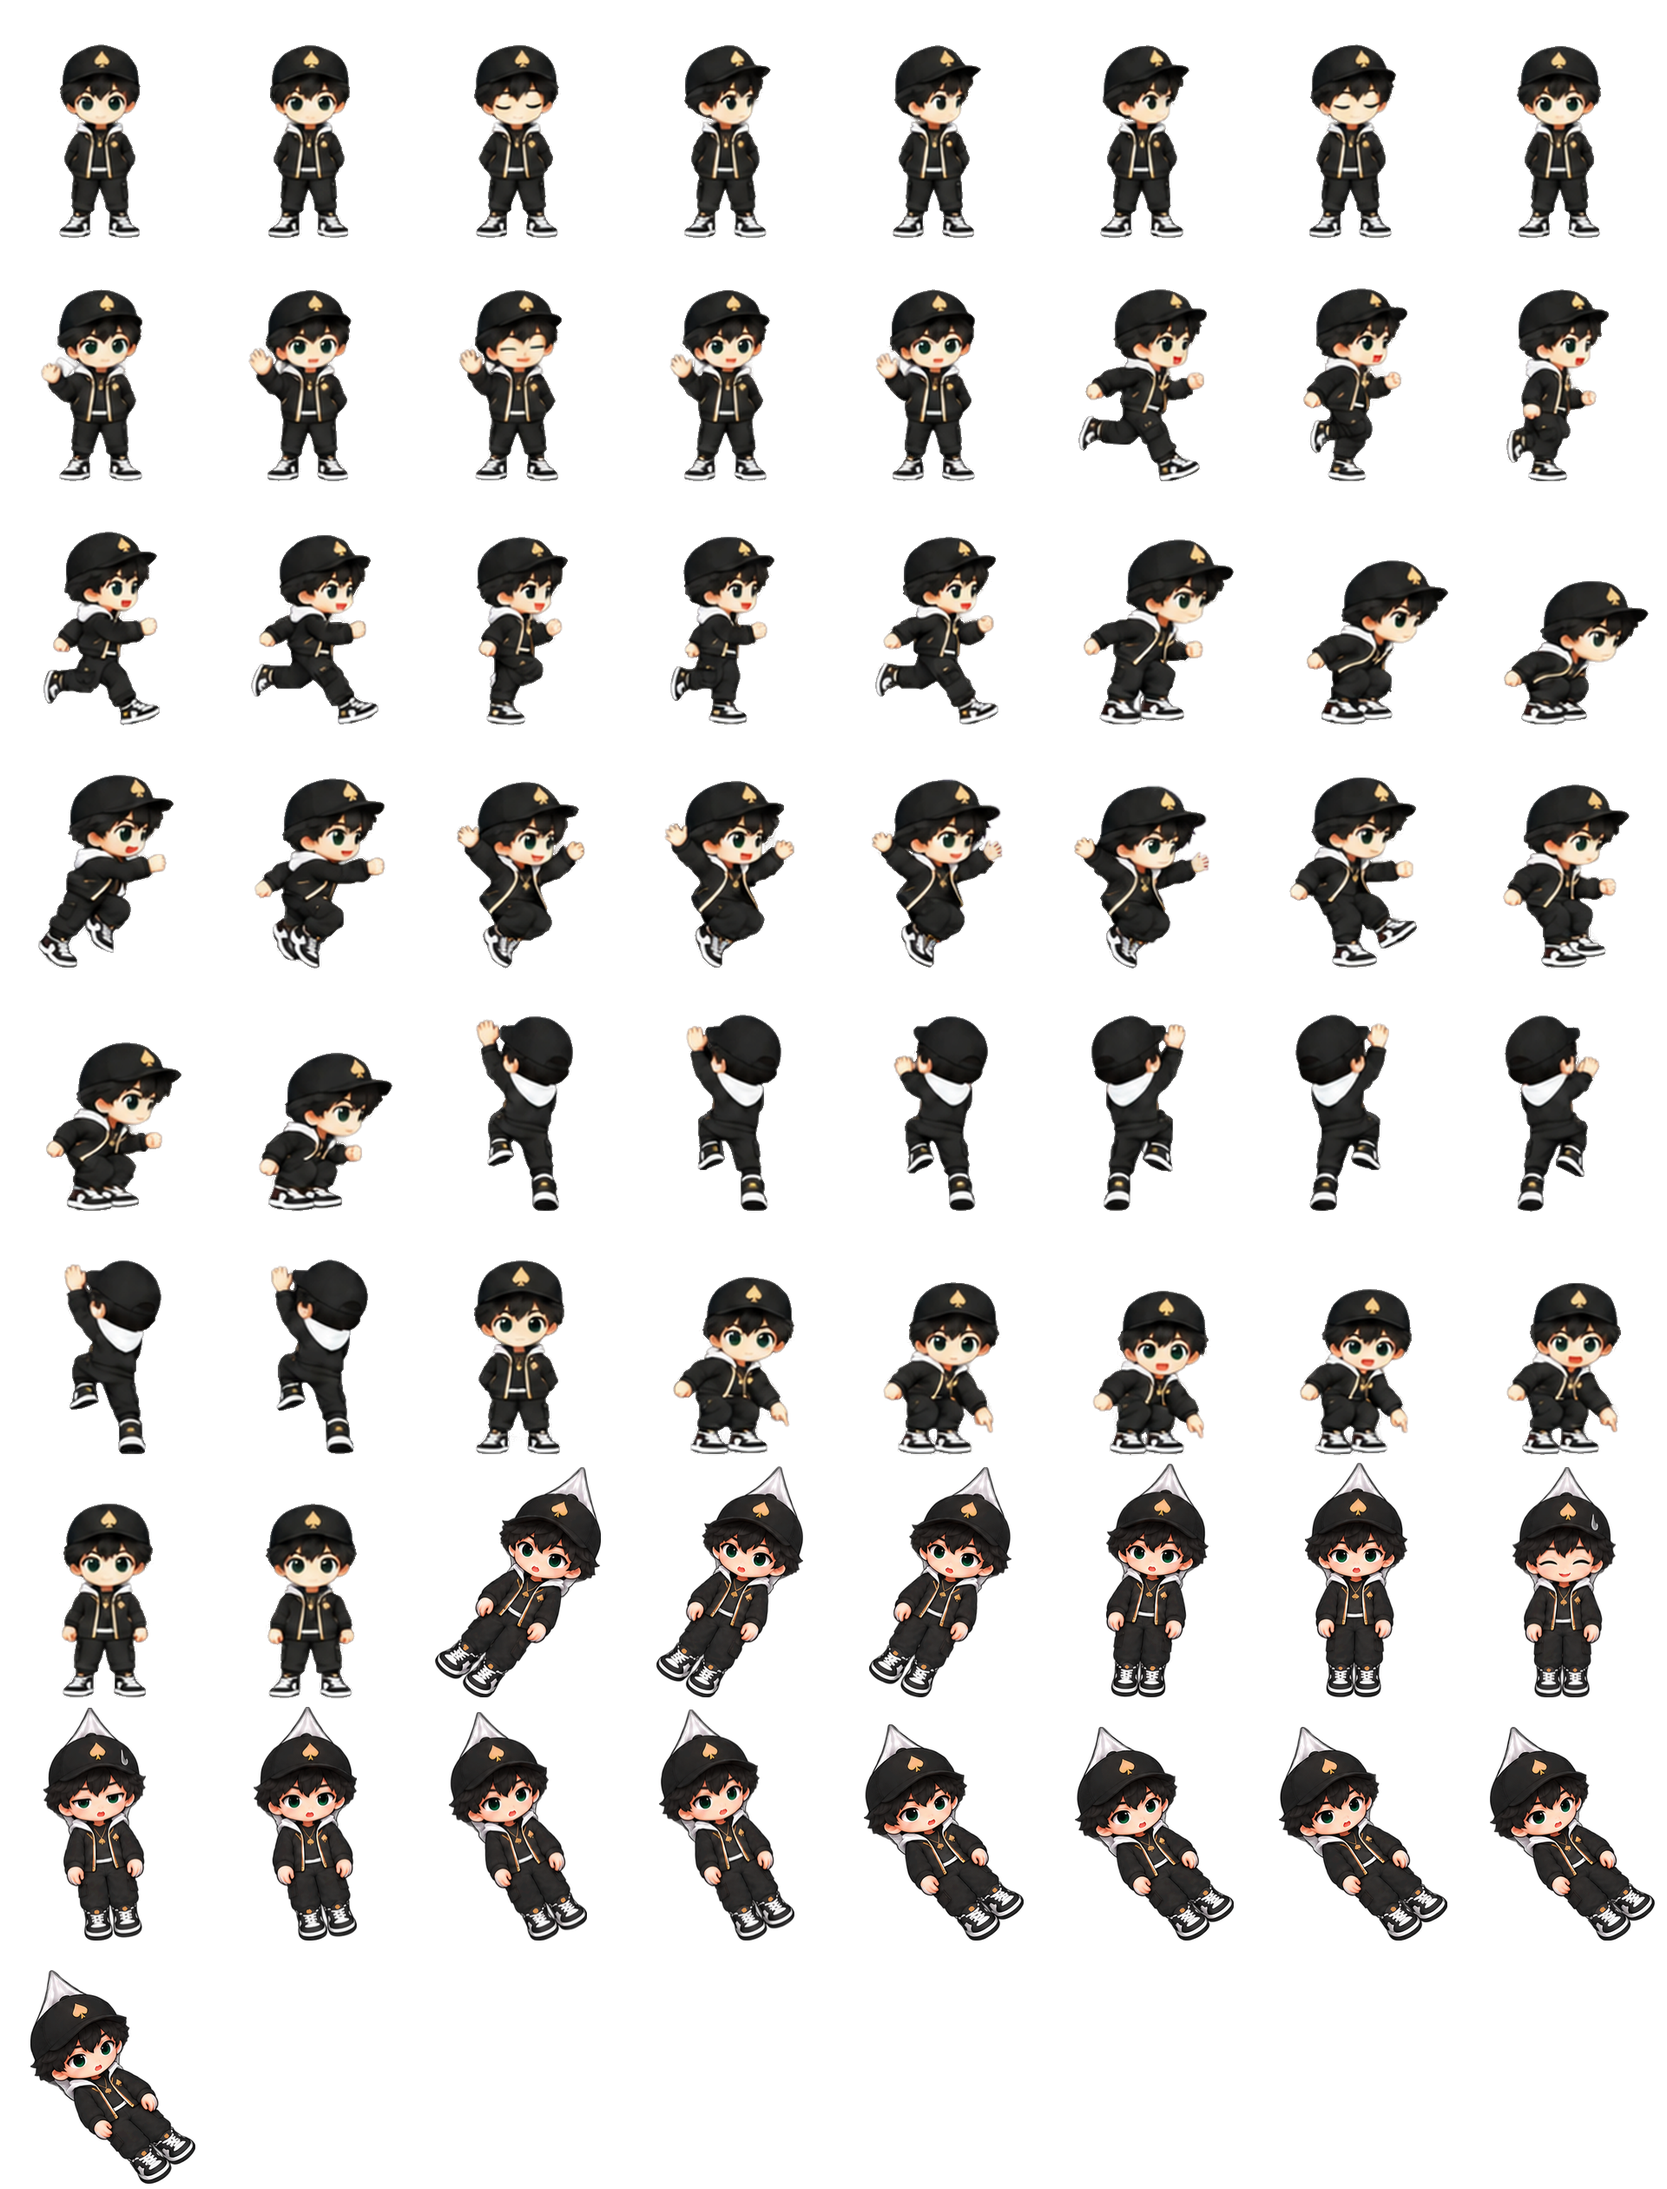
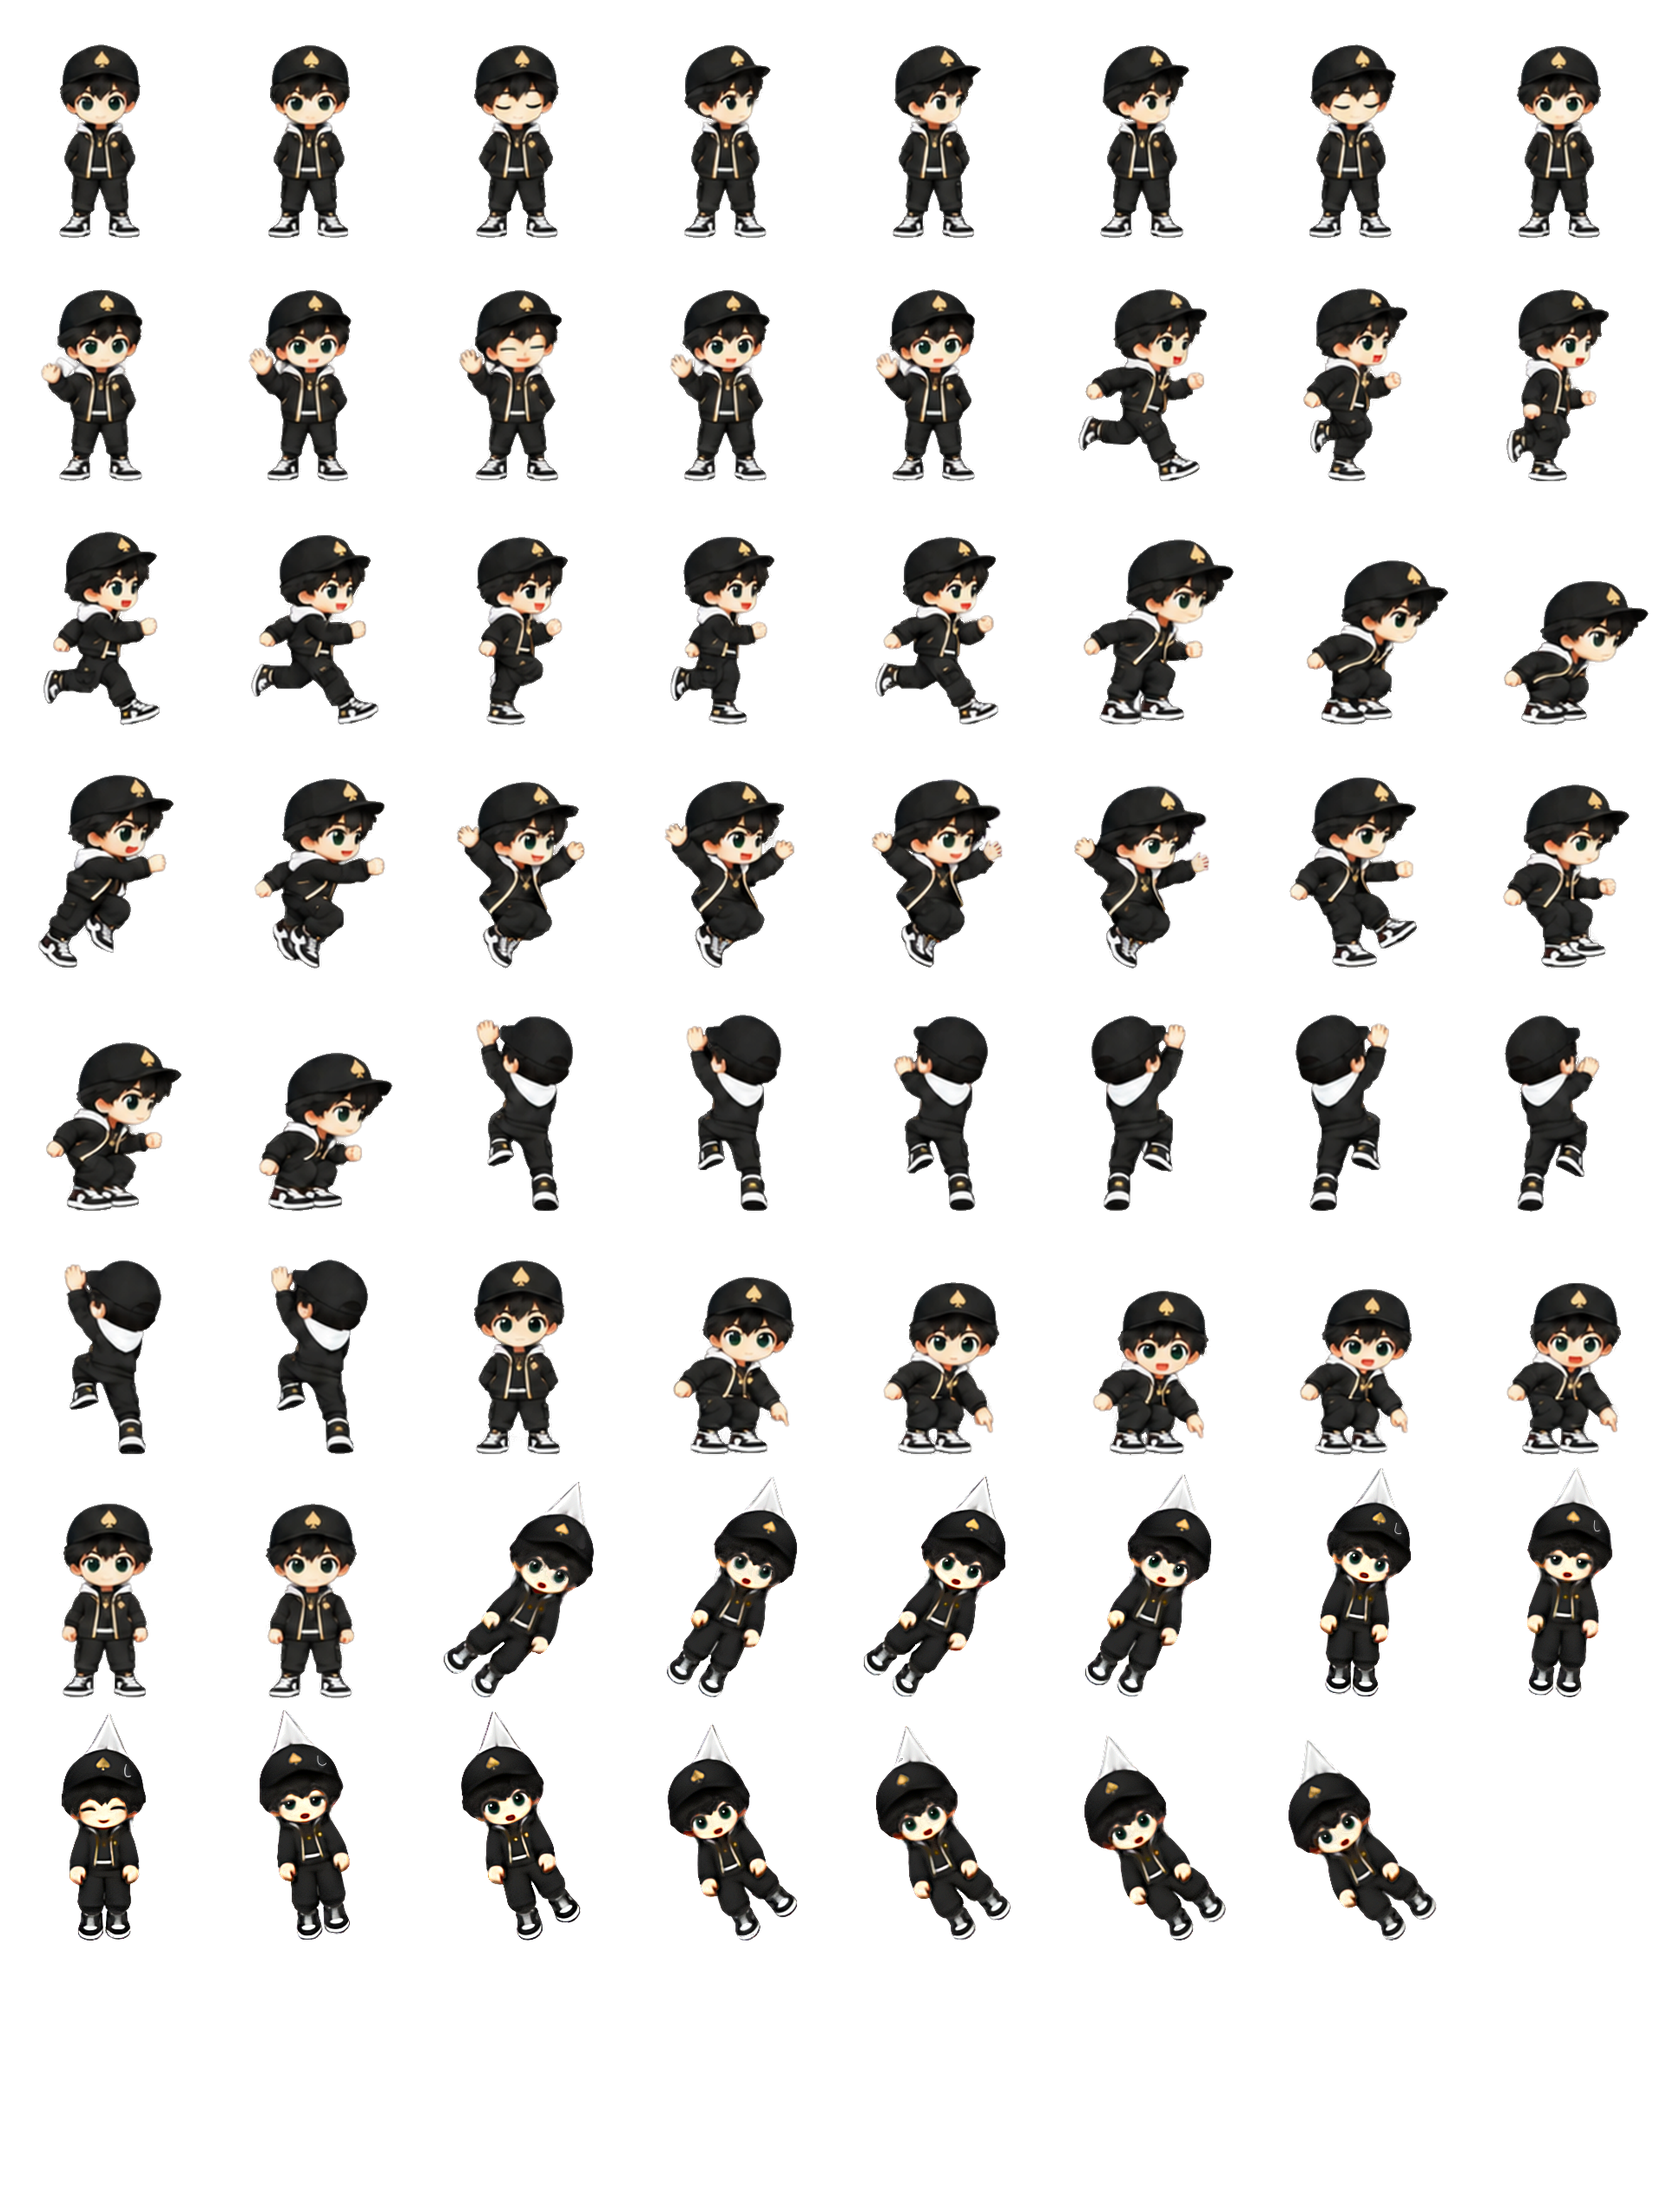
New 13-frame drag in swing order, frame 7 when held still

diff --git a/companion.js b/companion.js
@@ -344,12 +344,11 @@ const CLIPS={
   point :{f:[42,43,44,45,46,47,48,49],fps:6,  loop:false,dir:0},
   /* Held up by the hood. Not played on a clock: the frame is chosen from how
      the hand is moving (dragPoseNow below), so fps is unused and clipFrame()
-     special-cases it. Fifteen frames, a pendulum in the order they are laid
-     out: 0-2 swung well to the LEFT of the hood, 3 a little left, 4 hanging
-     straight, 5-7 hanging straight with a face (happy blink, sweat drop, flat
-     look), 8-9 a little right, 10-14 swung fully right. dir:0 because it
+     special-cases it. Thirteen frames in swing order, left to right: 0-3 swung to the LEFT of the
+     hood (0 furthest), 4-6 hanging straight (6 is a happy blink), 7-10 a little
+     to well RIGHT, 11-12 swung furthest right. dir:0 because it
      swings both ways on its own and must never be mirrored. */
-  drag  :{f:[50,51,52,53,54,55,56,57,58,59,60,61,62,63,64],fps:0,loop:false,dir:0},
+  drag  :{f:[50,51,52,53,54,55,56,57,58,59,60,61,62],fps:0,loop:false,dir:0},
 };
 /* Vertical bounce while running, in CSS px. The cycle carries its own rise
    and fall now, so this is a light garnish rather than the load-bearing
@@ -379,7 +378,7 @@ img.onload=()=>{
 img.onerror=()=>{pet.hidden=true;shadow.hidden=true;};
 /* WebP, not the PNG the build writes: 435KB against 1.8MB, with the alpha
    identical and colour within ~1.5/255 on average. Re-export after a rebuild. */
-img.src='assets/images/ace-atlas.webp?v=2';   // bump when the sheet changes: the page caches it
+img.src='assets/images/ace-atlas.webp?v=5';   // bump when the sheet changes: the page caches it
 
 function play(name){if(clipName!==name){clipName=name;clipStart=clock;}}
 /* Where a clip has got to. A looping clip wraps; a one-shot holds its last
@@ -624,9 +623,9 @@ const DRAG_SLOP=6;                  // px of travel before a press is a drag
    speed picks how far (DRAG_STEPS, px/s), and held still he hangs straight
    and now and then pulls a face. Indices are into CLIPS.drag.f. */
 const DRAG_STEPS=[70,170,340,620];    // px/s between: straight, a little, some, well, fully
-const DRAG_LEFT=[4,3,2,1,0];          // straight → fully left (hand moving right)
-const DRAG_RIGHT=[4,8,9,10];          // straight → well right (hand moving left); fully = 10-14 cycled
-const DRAG_FACES=[5,6,7];             // straight, with a face
+const DRAG_LEFT=[6,3,1,2,0];          // straight → fully left (hand moving right)
+const DRAG_RIGHT=[6,7,9,10];          // straight → well right (hand moving left); fully = 11-12 alternated
+const DRAG_FACES=[];                  // none: held still he always shows frame 7 (the happy blink)
 let dragSwingV=0,dragStill=0,dragFace=-1,dragFaceUntil=0,dragNextFace=0;
 function dragPoseNow(dt){
   dragSwingV+=(dragVX-dragSwingV)*Math.min(1,dt*12);     // eased, so the frame does not flicker
@@ -634,17 +633,17 @@ function dragPoseNow(dt){
   const step=a<DRAG_STEPS[0]?0:a<DRAG_STEPS[1]?1:a<DRAG_STEPS[2]?2:a<DRAG_STEPS[3]?3:4;
   if(step===0){
     dragStill+=dt;
-    if(dragFace<0&&dragStill>1.2&&clock>=dragNextFace){
+    if(DRAG_FACES.length&&dragFace<0&&dragStill>1.2&&clock>=dragNextFace){
       dragFace=DRAG_FACES[Math.floor(Math.random()*DRAG_FACES.length)];
       dragFaceUntil=clock+.7+Math.random()*.6;
       dragNextFace=clock+2.5+Math.random()*3;
     }
     if(dragFace>=0){if(clock<dragFaceUntil)return dragFace;dragFace=-1;}
-    return 4;
+    return 6;
   }
   dragStill=0;dragFace=-1;
   if(v>0)return DRAG_LEFT[step];
-  return step<4?DRAG_RIGHT[step]:10+Math.floor(clock*6)%5;
+  return step<4?DRAG_RIGHT[step]:11+Math.floor(clock*6)%2;
 }
 let dragging=false,dragPointer=null,dragOffX=0,dragOffY=0,
     dragSpeed=0,dragLastT=0,dragDownX=0,dragDownY=0,suppressClick=false;
@@ -669,7 +668,7 @@ addEventListener('pointermove',e=>{
     pet.classList.add('is-dragging');
     climb=null;runGoal=null;pendingJump=null;pointUntil=0;
     state.vx=0;state.vy=0;state.ground=null;state.bouncy=false;dragVX=dragVY=0;
-    dragPose=4;dragSwingV=0;dragStill=0;dragFace=-1;dragNextFace=clock+1.5;
+    dragPose=6;dragSwingV=0;dragStill=0;dragFace=-1;dragNextFace=clock+1.5;
   }
   const nx=clampX(e.clientX+dragOffX),dx=nx-state.x;
   const ny=Math.max(-10,Math.min(innerHeight+40,e.clientY+dragOffY)),dy=ny-state.y;
